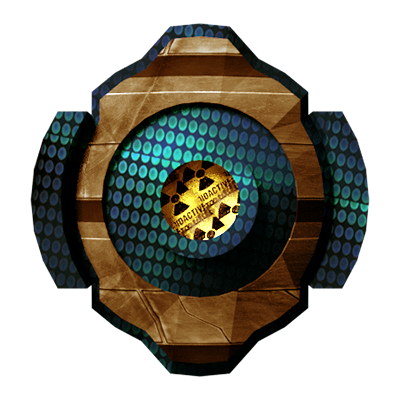
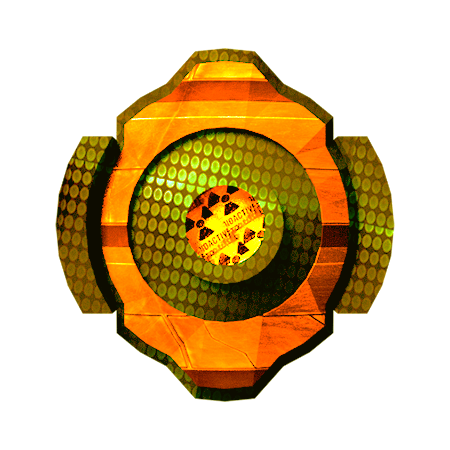
commited by cesar

diff --git a/game.js b/game.js
@@ -131,7 +131,7 @@ const powerUp = [
   new PowerUps(400, 100, "health", 100),
  new PowerUps(700, 100, "money", 100),
  new PowerUps(900, 100, "energy", 100),
- new PowerUps(1000, 100, "energyGreen", 100, 200, 200),
+ new PowerUps(1000, 100, "energyLava", 100, 200, 200),
  new PowerUps(1500, 100, "energyGreen", 100, 200, 200),
  new PowerUps(1500, 500, "energyGreen", 100, 200, 200),
 ];
